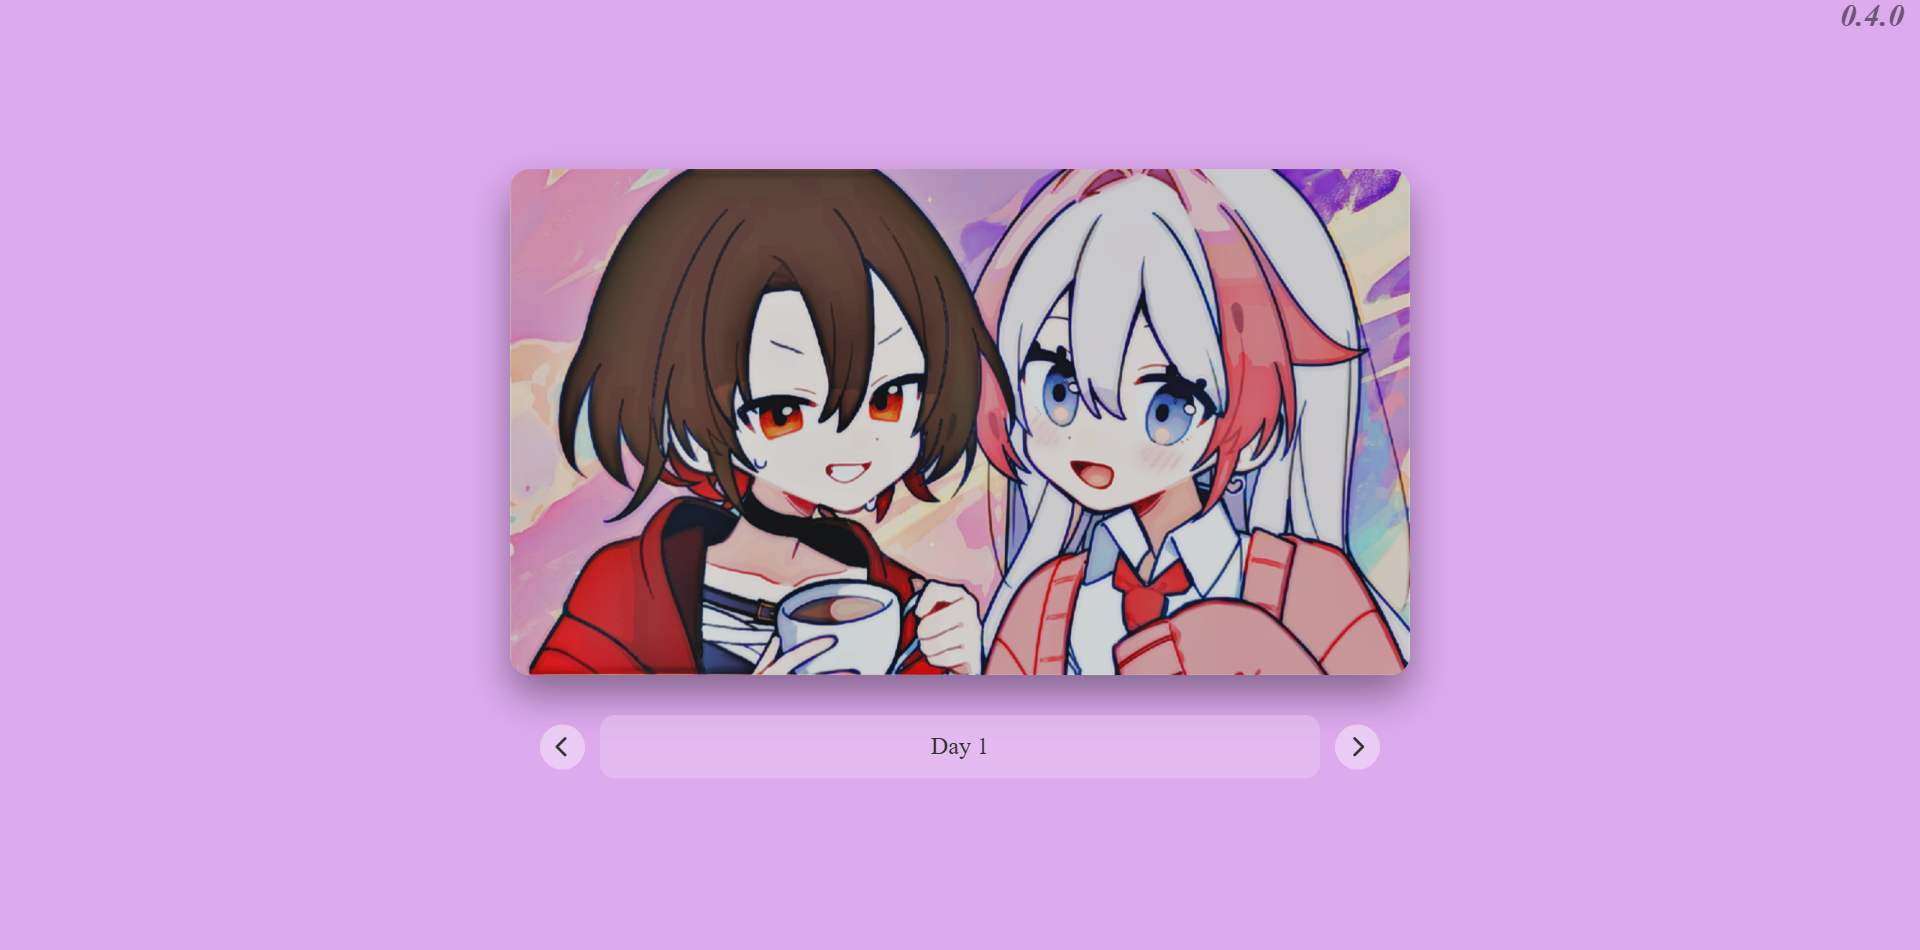
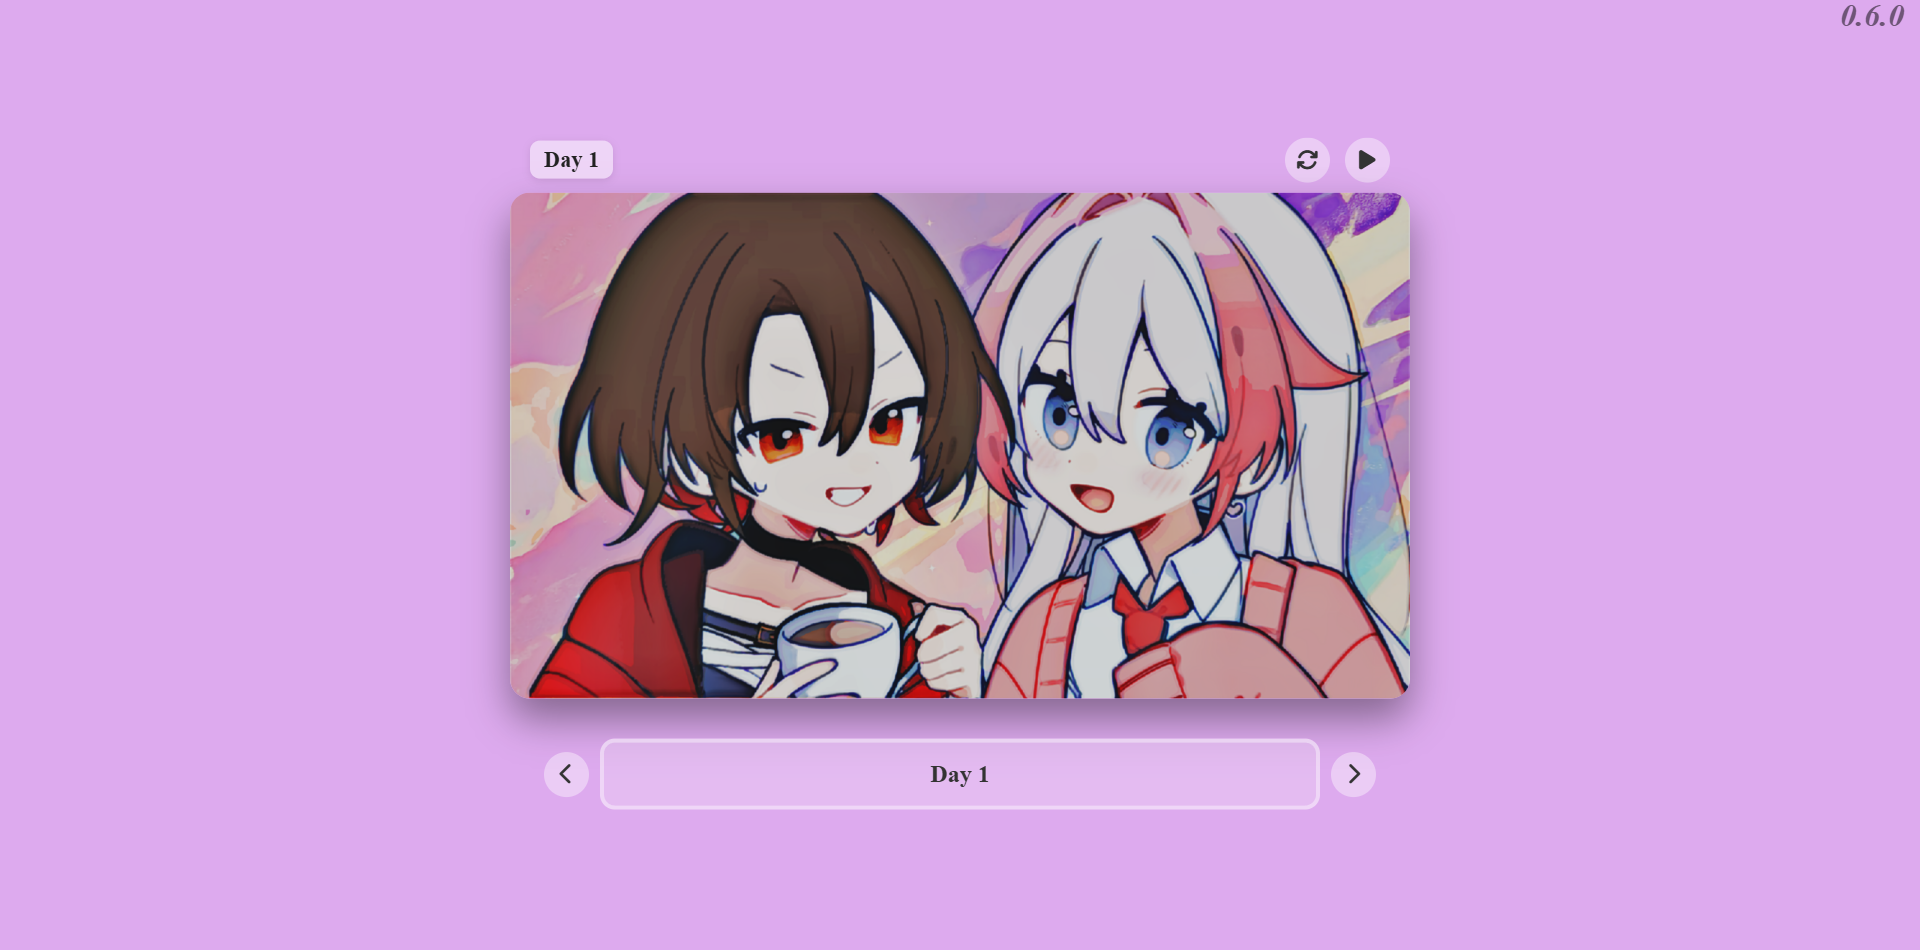
FIRST MONTH 0.6.0
Add Controls Carousel

Changed region(s): [[0.25, 0.1221, 0.75, 0.8547]]

diff --git a/src/index.css b/src/index.css
@@ -25,6 +25,7 @@ html {
   background-color: var(--background);
 }
 
+/* --- Wrapper --- */
 .carousel-wrapper {
   position: fixed;
   top: 50%;
@@ -37,12 +38,18 @@ html {
   align-items: center;
 }
 
-/* Mueve el indicador fuera del área del carrusel */
-.day-indicator {
-  position: relative; /* ya no absolute */
-  align-self: flex-start;
+/* --- Header --- */
+.header {
+  width: 100%;
+  display: flex;
+  justify-content: space-between;
+  align-items: center;
   margin-bottom: 10px;
-  margin-left: 20px;
+  padding: 0 20px;
+}
+
+/* --- Day indicator --- */
+.day-indicator {
   font-size: 1.4rem;
   font-weight: bold;
   color: #222;
@@ -53,6 +60,56 @@ html {
   box-shadow: 0 2px 8px rgba(0, 0, 0, 0.1);
 }
 
+/* --- Controls (Replay y Play) --- */
+.controls {
+  display: flex;
+  gap: 15px;
+}
+
+.controls i.replay {
+  pointer-events: none; /* decorativo, sin interacción */
+  background: rgba(255, 255, 255, 0.4);
+  border-radius: 50%;
+  width: 45px;
+  height: 45px;
+  display: flex;
+  align-items: center;
+  justify-content: center;
+  color: #333;
+  font-size: 1.4rem;
+}
+
+button.play {
+  background: rgba(255, 255, 255, 0.4);
+  border: none;
+  color: #333;
+  font-size: 2rem;
+  font-weight: bold;
+  border-radius: 50%;
+  width: 45px;
+  height: 45px;
+  cursor: pointer;
+  transition: all 0.5s ease;
+  display: flex;
+  align-items: center;
+  justify-content: center;
+}
+
+button.play:hover {
+  background: rgba(255, 255, 255, 0.7);
+  transform: scale(1.15);
+}
+
+button.play:active {
+  background: rgba(255, 255, 255, 0.5);
+  transform: scale(1);
+}
+
+button.play i {
+  font-size: 1.4rem;
+}
+
+/* --- Carousel --- */
 .carousel {
   width: 100%;
   max-height: 700px;
@@ -72,13 +129,15 @@ html {
   border-radius: 20px;
 }
 
+/* --- Text box --- */
 .text-box {
   position: relative;
   margin-top: 40px;
   width: 80%;
   text-align: center;
   background: rgba(255, 255, 255, 0.2);
-  padding: 15px 60px; /* extra space so text doesn't overlap arrows */
+  padding: 15px 60px; /* espacio extra para flechas */
+  border: 4px solid rgba(255, 255, 255, 0.4);
   border-radius: 15px;
   backdrop-filter: blur(10px);
   display: flex;
@@ -95,7 +154,7 @@ html {
   z-index: 1;
 }
 
-/* --- Arrows --- */
+/* --- Carousel arrows --- */
 .arrow {
   position: absolute;
   top: 50%;
@@ -109,7 +168,7 @@ html {
   width: 45px;
   height: 45px;
   cursor: pointer;
-  transition: all 0.25s ease;
+  transition: all 0.5s ease;
   display: flex;
   align-items: center;
   justify-content: center;
@@ -117,11 +176,11 @@ html {
 }
 
 .arrow.left {
-  left: -60px; /* move outside left edge */
+  left: -60px; /* fuera del text box */
 }
 
 .arrow.right {
-  right: -60px; /* move outside right edge */
+  right: -60px;
 }
 
 .arrow:hover {
@@ -130,14 +189,15 @@ html {
 }
 
 .arrow:active {
-  transform: translateY(-50%) scale(1);
   background: rgba(255, 255, 255, 0.5);
+  transform: translateY(-50%) scale(1);
 }
 
 .arrow i {
   font-size: 1.4rem;
 }
 
+/* --- Version watermark --- */
 .version__watermark {
   position: fixed;
   top: 0;

diff --git a/src/Components/Carousel.js b/src/Components/Carousel.js
@@ -4,15 +4,21 @@ import translations from "../Data/translations";
 function Carousel() {
   const lang = "en";
   const [day, setDay] = useState(1);
-  const todaySentence = translations[lang].carousel[day];
+  const sentence = translations[lang].carousel[day];
 
   const handlePrev = () => setDay((prev) => (prev > 1 ? prev - 1 : 31));
   const handleNext = () => setDay((prev) => (prev < 31 ? prev + 1 : 1));
 
   return (
     <div className="carousel-wrapper">
-      <div className="day-indicator">
-        Día {day}
+      <div className="header">
+        <div className="day-indicator">Day {day}</div>
+        <div className="controls">
+          <i className="fa-solid fa-arrows-rotate replay" />
+          <button className="play">
+            <i className="fa-solid fa-play" />
+          </button>
+        </div>
       </div>
       <div className="carousel">
         <img src={`images/${day}.png`} alt={`carousel item ${day}`} />
@@ -21,7 +27,7 @@ function Carousel() {
         <button className="arrow left" onClick={handlePrev}>
           <i className="fa-solid fa-chevron-left" />
         </button>
-        <p>{todaySentence}</p>
+        <p>{sentence}</p>
         <button className="arrow right" onClick={handleNext}>
           <i className="fa-solid fa-chevron-right" />
         </button>

diff --git a/README.md b/README.md
@@ -15,7 +15,7 @@
 
 - **STACK :**
 
-  - **FIRST MONTH** : `0.5.0`
+  - **FIRST MONTH** : `0.6.0`
   - **React** : `19.2.0`
 
 ---
